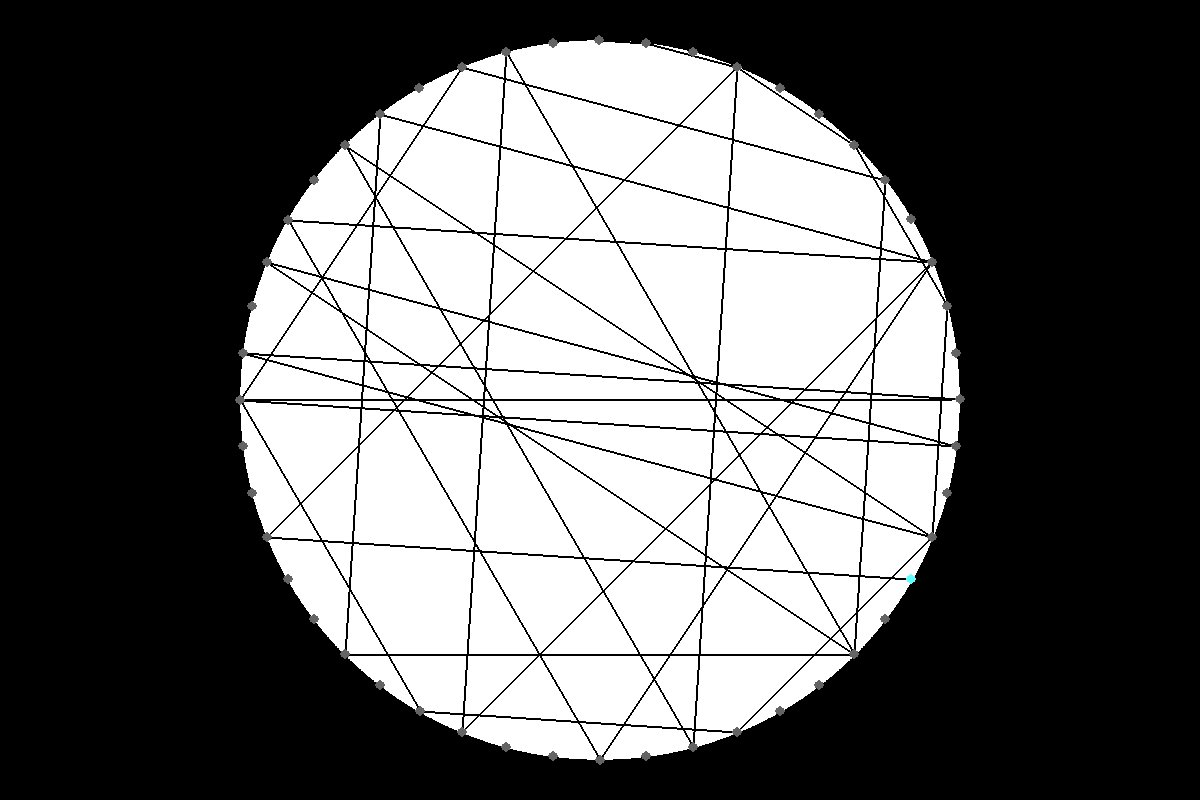
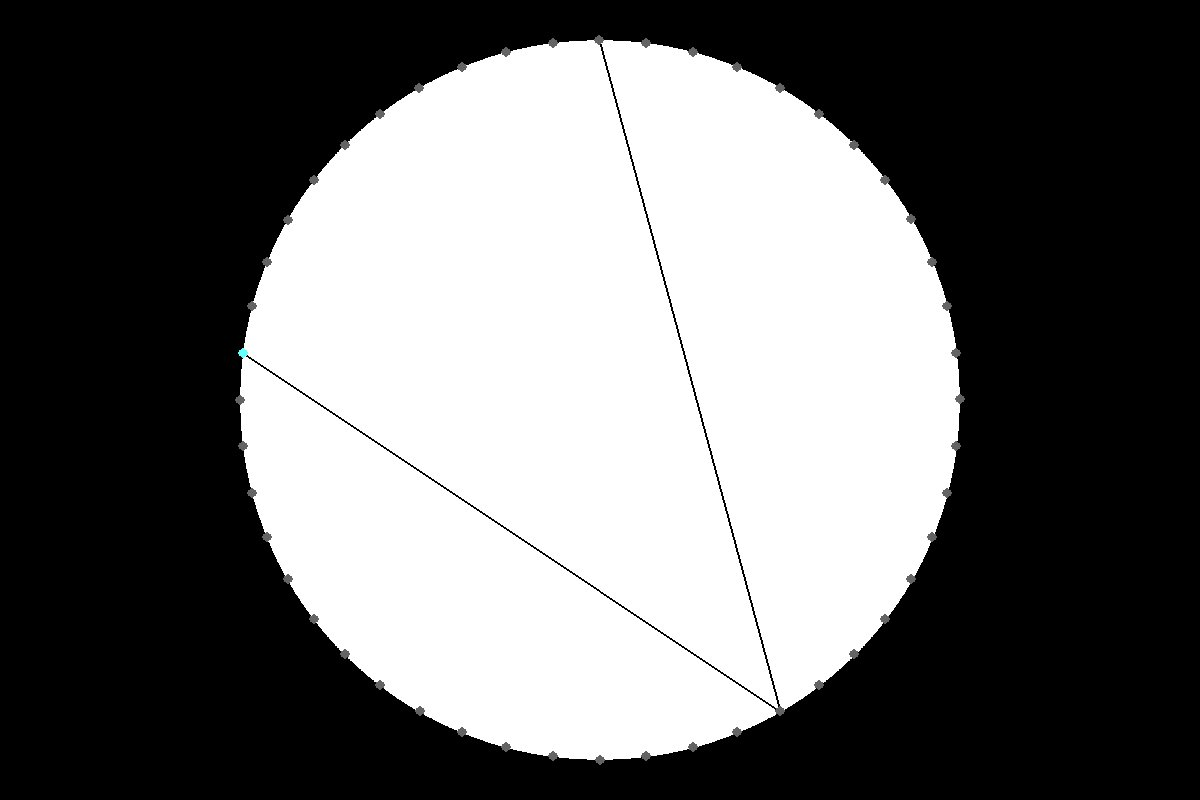
Got r axis limit switch working

diff --git a/Python_side Control/hardcoded.py b/Python_side Control/hardcoded.py
@@ -9,9 +9,9 @@ def get_next_peg(peg_list):
     return True, peg_list.pop(0)
 
 
-#peg_list = [20, 37]
+peg_list = [20, 37]
 #peg_list = [20, 40, 30, 10, 0]
-peg_list = [1, 3, 6, 10, 15, 21, 28, 36, 45, 7, 18, 30, 43, 9, 24, 40, 9, 27, 46, 18, 39, 13, 36, 12, 37, 15, 42, 22, 3, 33, 16, 48, 33, 19, 6, 42, 31, 21, 12, 4, 45, 39, 34, 30, 27, 25, 24, 24, 25]
+#peg_list = [1, 3, 6, 10, 15, 21, 28, 36, 45, 7, 18, 30, 43, 9, 24, 40, 9, 27, 46, 18, 39, 13, 36, 12, 37, 15, 42, 22, 3, 33, 16, 48, 33, 19, 6, 42, 31, 21, 12, 4, 45, 39, 34, 30, 27, 25, 24, 24, 25]
 
 peg_num = 48
 string_thickness = 1
